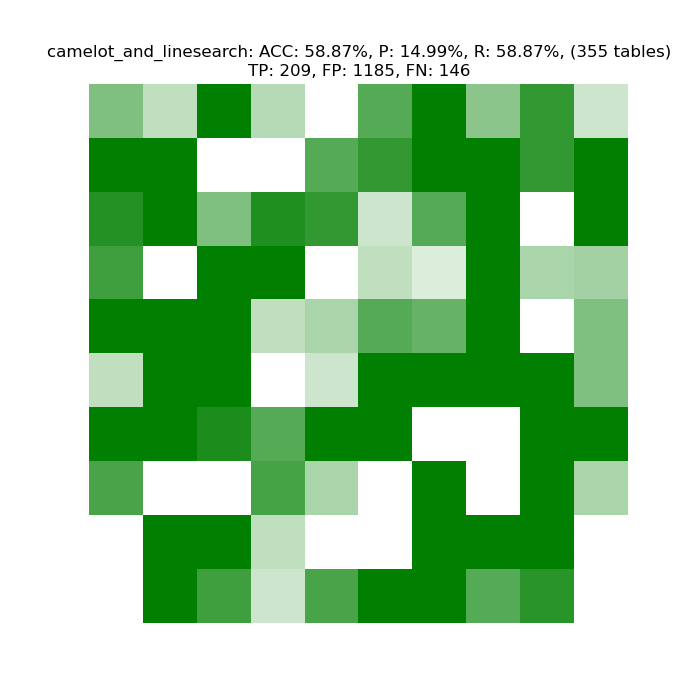
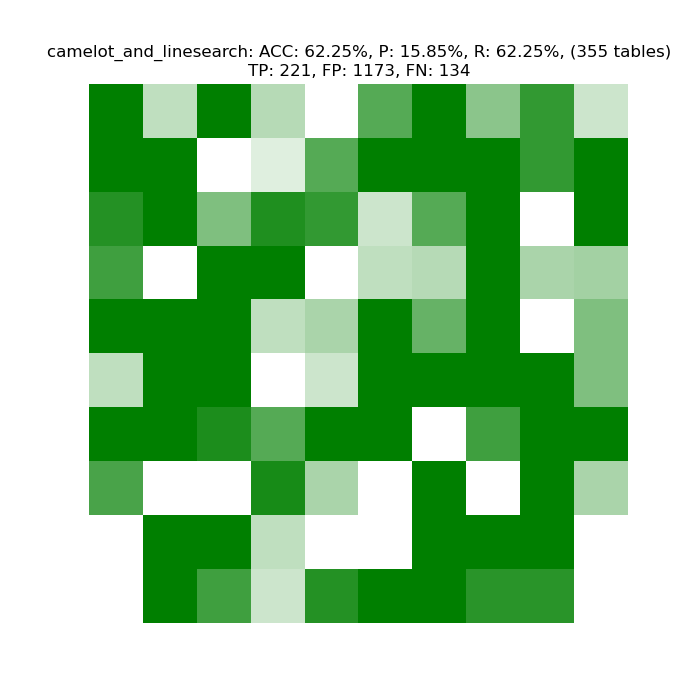
updated camelot+linesearch results

diff --git a/analysis/pdf2info_tests/show_results_of_method.py b/analysis/pdf2info_tests/show_results_of_method.py
@@ -14,6 +14,6 @@ def create_plots_results(method_used:str, show_fig:bool=True):
 
 if __name__ == '__main__':
     logging.basicConfig(level=logging.DEBUG)
-    method_used = 'linesearch'
+    method_used = 'camelot_and_linesearch'
     create_plots_results(method_used, show_fig=True)
 
